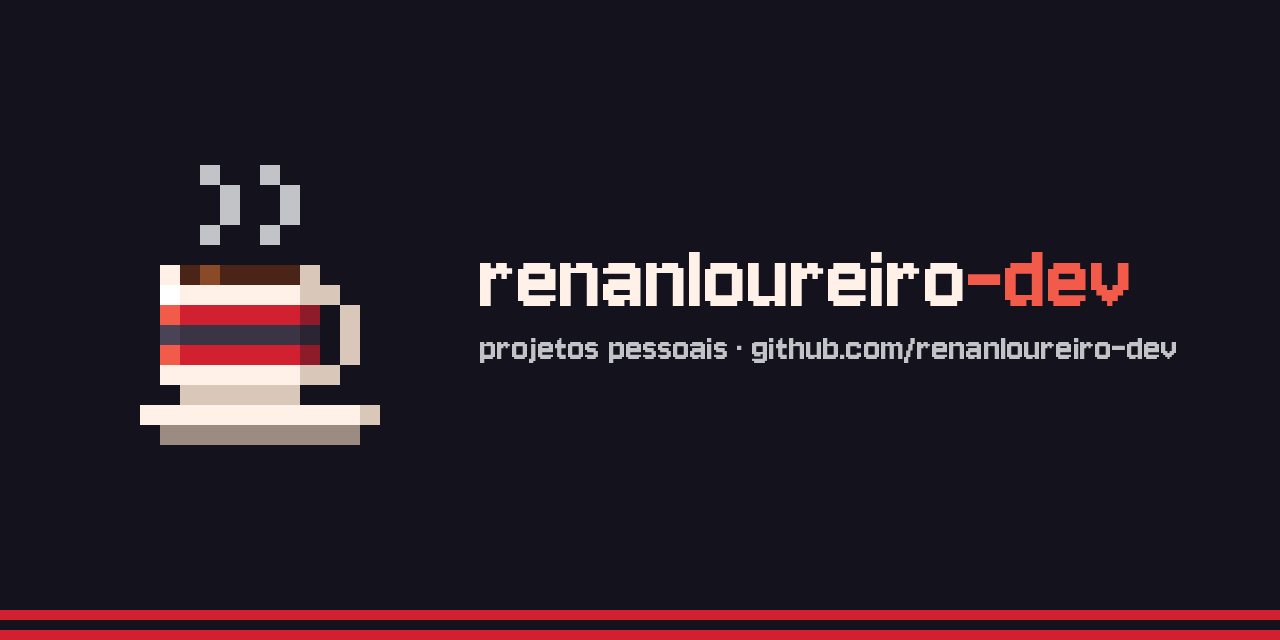
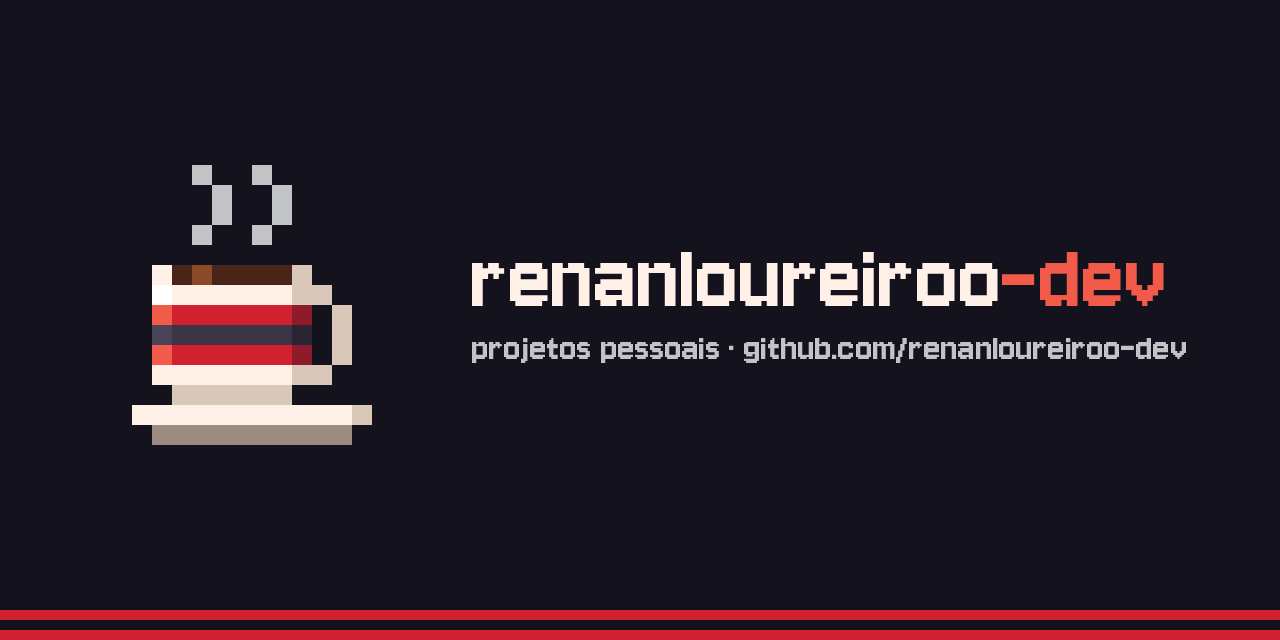
Atualiza a marca com o nome renanloureiroo-dev

diff --git a/marca/LEIA-ME.md b/marca/LEIA-ME.md
@@ -1,4 +1,4 @@
-# renanloureiro-dev · marca
+# renanloureiroo-dev · marca
 
 Xícara rubro-negra em pixel art 16 × 16: café, as cores do time e o video game retrô.
 
@@ -21,7 +21,7 @@ Xícara rubro-negra em pixel art 16 × 16: café, as cores do time e o video gam
 
 ## Como aplicar no GitHub
 
-1. **Foto da organização:** github.com/organizations/renanloureiro-dev/settings/profile → *Profile picture* → envie `avatar/avatar-escuro-512.png`. Envie o quadrado como está; o GitHub arredonda os cantos sozinho.
+1. **Foto da organização:** github.com/organizations/renanloureiroo-dev/settings/profile → *Profile picture* → envie `avatar/avatar-escuro-512.png`. Envie o quadrado como está; o GitHub arredonda os cantos sozinho.
 2. **README da organização:** crie o repositório público `.github` na organização, com o arquivo `profile/README.md`. Use `github/profile-README.md` como modelo e coloque o banner e o GIF na pasta `profile/`.
 3. **Prévia social de cada repositório:** Settings do repositório → *Social preview* → envie `github/social-preview-1280x640.png` (ou uma cópia com o nome do projeto).
 
@@ -42,7 +42,7 @@ Xícara rubro-negra em pixel art 16 × 16: café, as cores do time e o video gam
 
 ## Tipografia
 
-**Jersey 10** (Google Fonts, licença SIL Open Font License), em minúsculas: `renanloureiro` na cor do texto e `-dev` em vermelho.
+**Jersey 10** (Google Fonts, licença SIL Open Font License), em minúsculas: `renanloureiroo` na cor do texto e `-dev` em vermelho.
 
 ## Regras
 

diff --git a/marca/github/profile-README.md b/marca/github/profile-README.md
@@ -1,5 +1,5 @@
 <p align="center">
-  <img src="readme-banner-1280x320.png" alt="renanloureiro-dev" width="100%">
+  <img src="readme-banner-1280x320.png" alt="renanloureiroo-dev" width="100%">
 </p>
 
 <p align="center">
@@ -14,5 +14,5 @@
 
 | Projeto | O que é |
 |---|---|
-| [sobrou](https://github.com/renanloureiro-dev/sobrou) | [DESCRIÇÃO DO SOBROU] |
-| [PROJETO](https://github.com/renanloureiro-dev/PROJETO) | [DESCRIÇÃO] |
+| [sobrou](https://github.com/renanloureiroo-dev/sobrou) | [DESCRIÇÃO DO SOBROU] |
+| [PROJETO](https://github.com/renanloureiroo-dev/PROJETO) | [DESCRIÇÃO] |

diff --git a/profile/README.md b/profile/README.md
@@ -1,5 +1,5 @@
 <p align="center">
-  <img src="https://raw.githubusercontent.com/renanloureiroo-dev/.github/main/profile/readme-banner-1280x320.png" alt="renanloureiro-dev" width="100%">
+  <img src="https://raw.githubusercontent.com/renanloureiroo-dev/.github/main/profile/readme-banner-1280x320.png" alt="renanloureiroo-dev" width="100%">
 </p>
 
 <p align="center">
